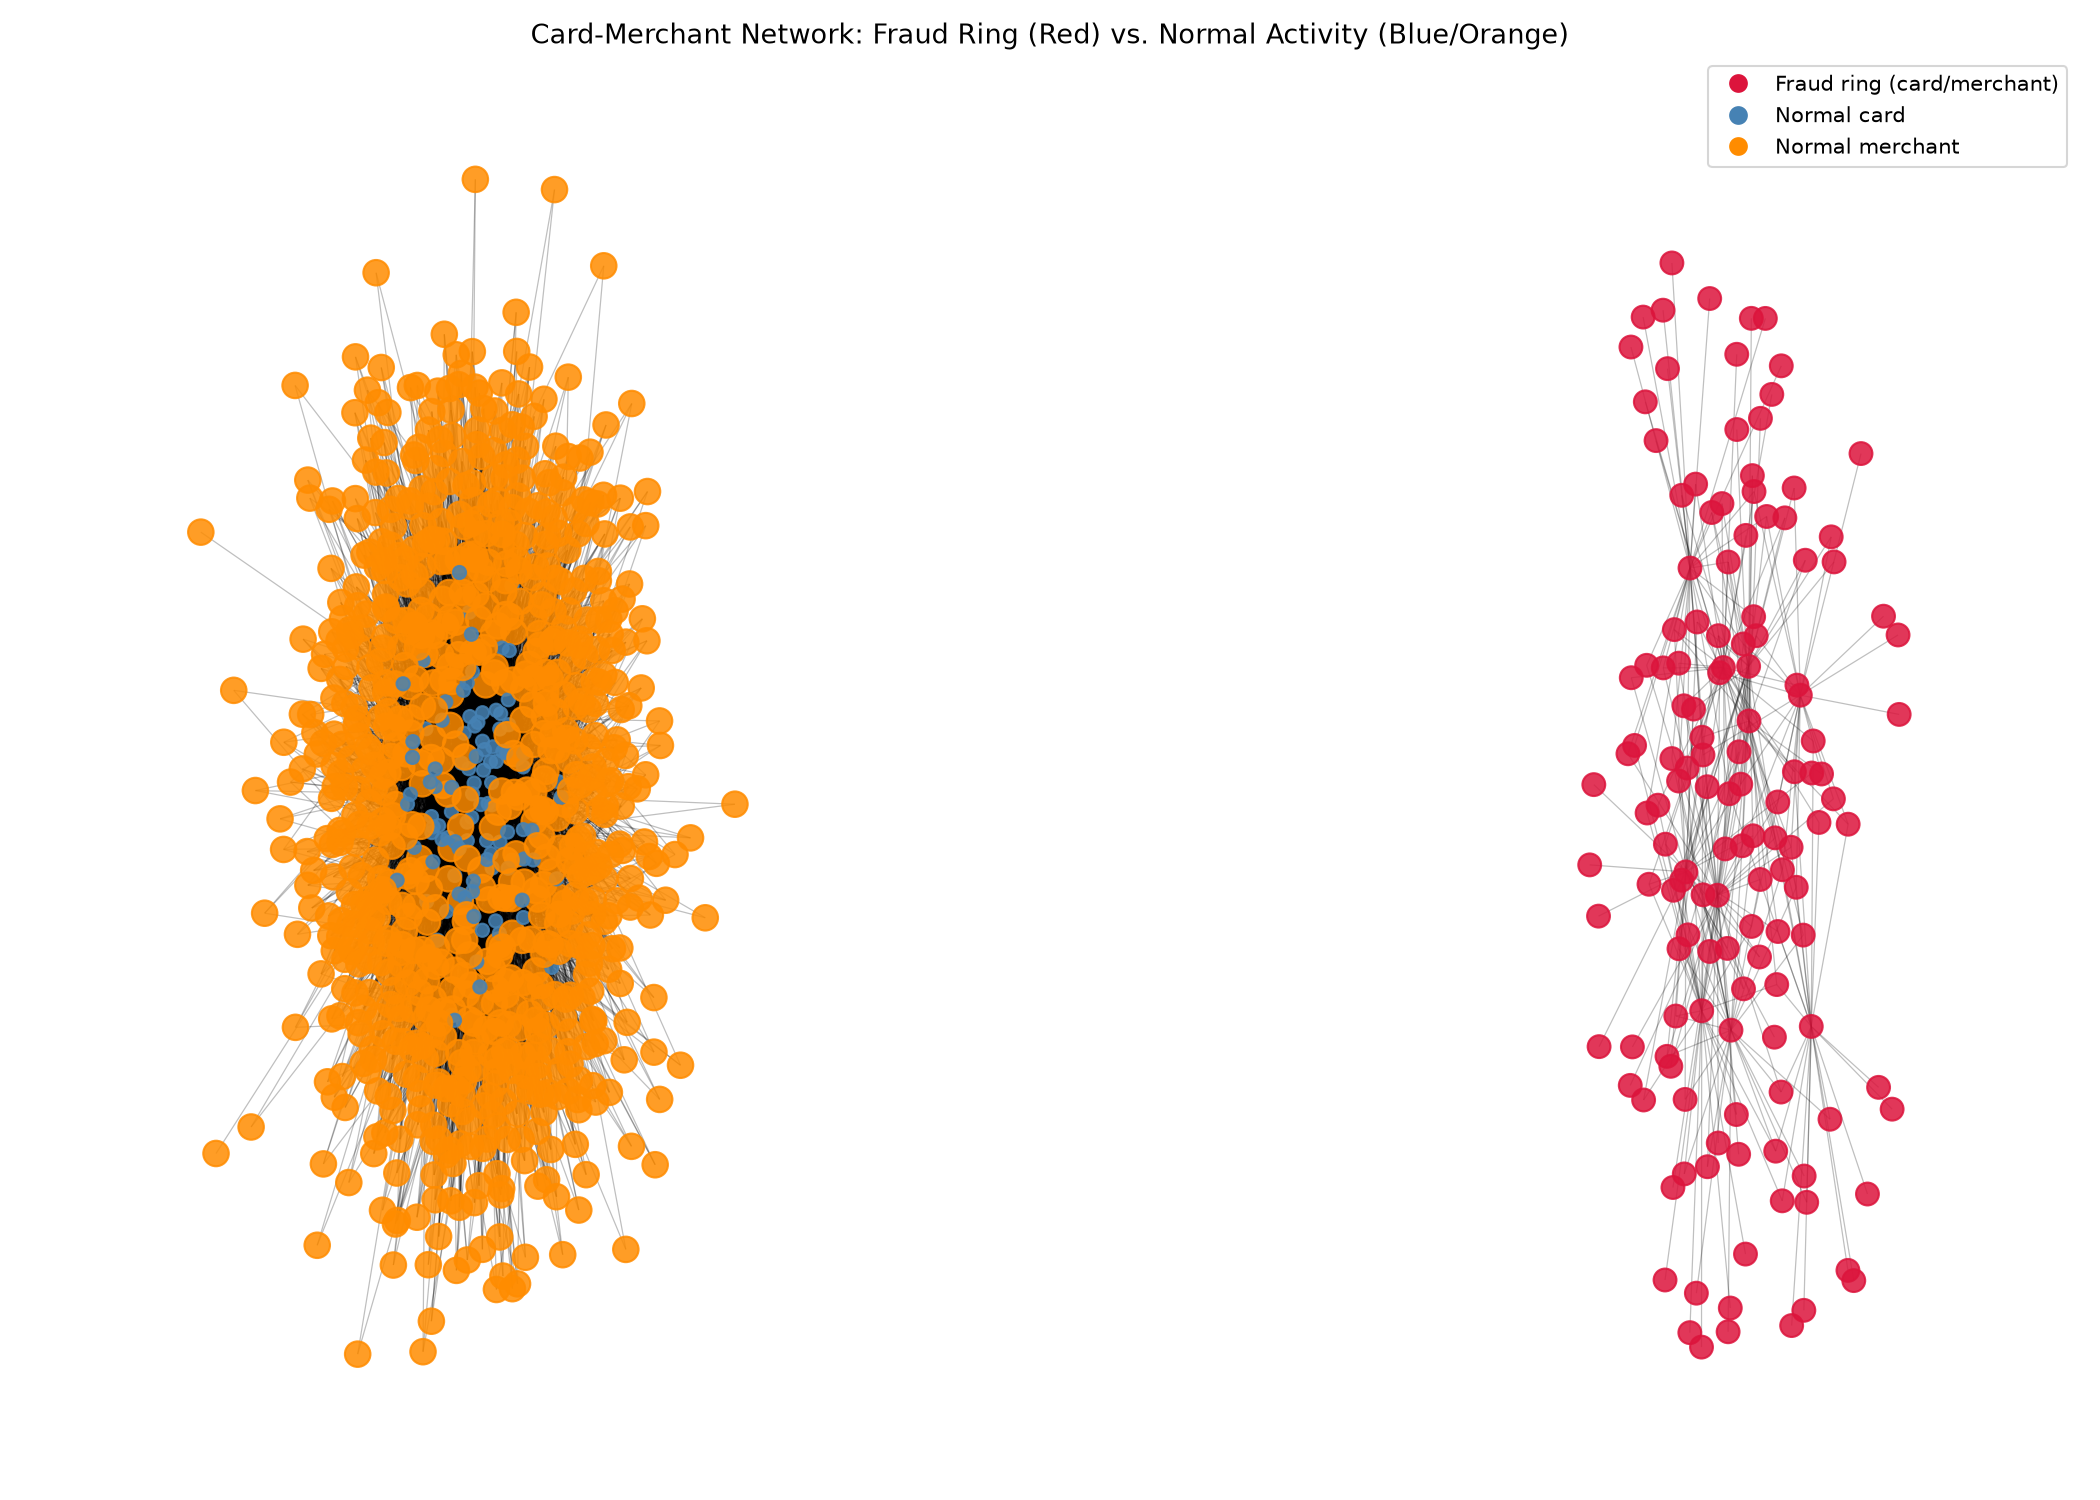
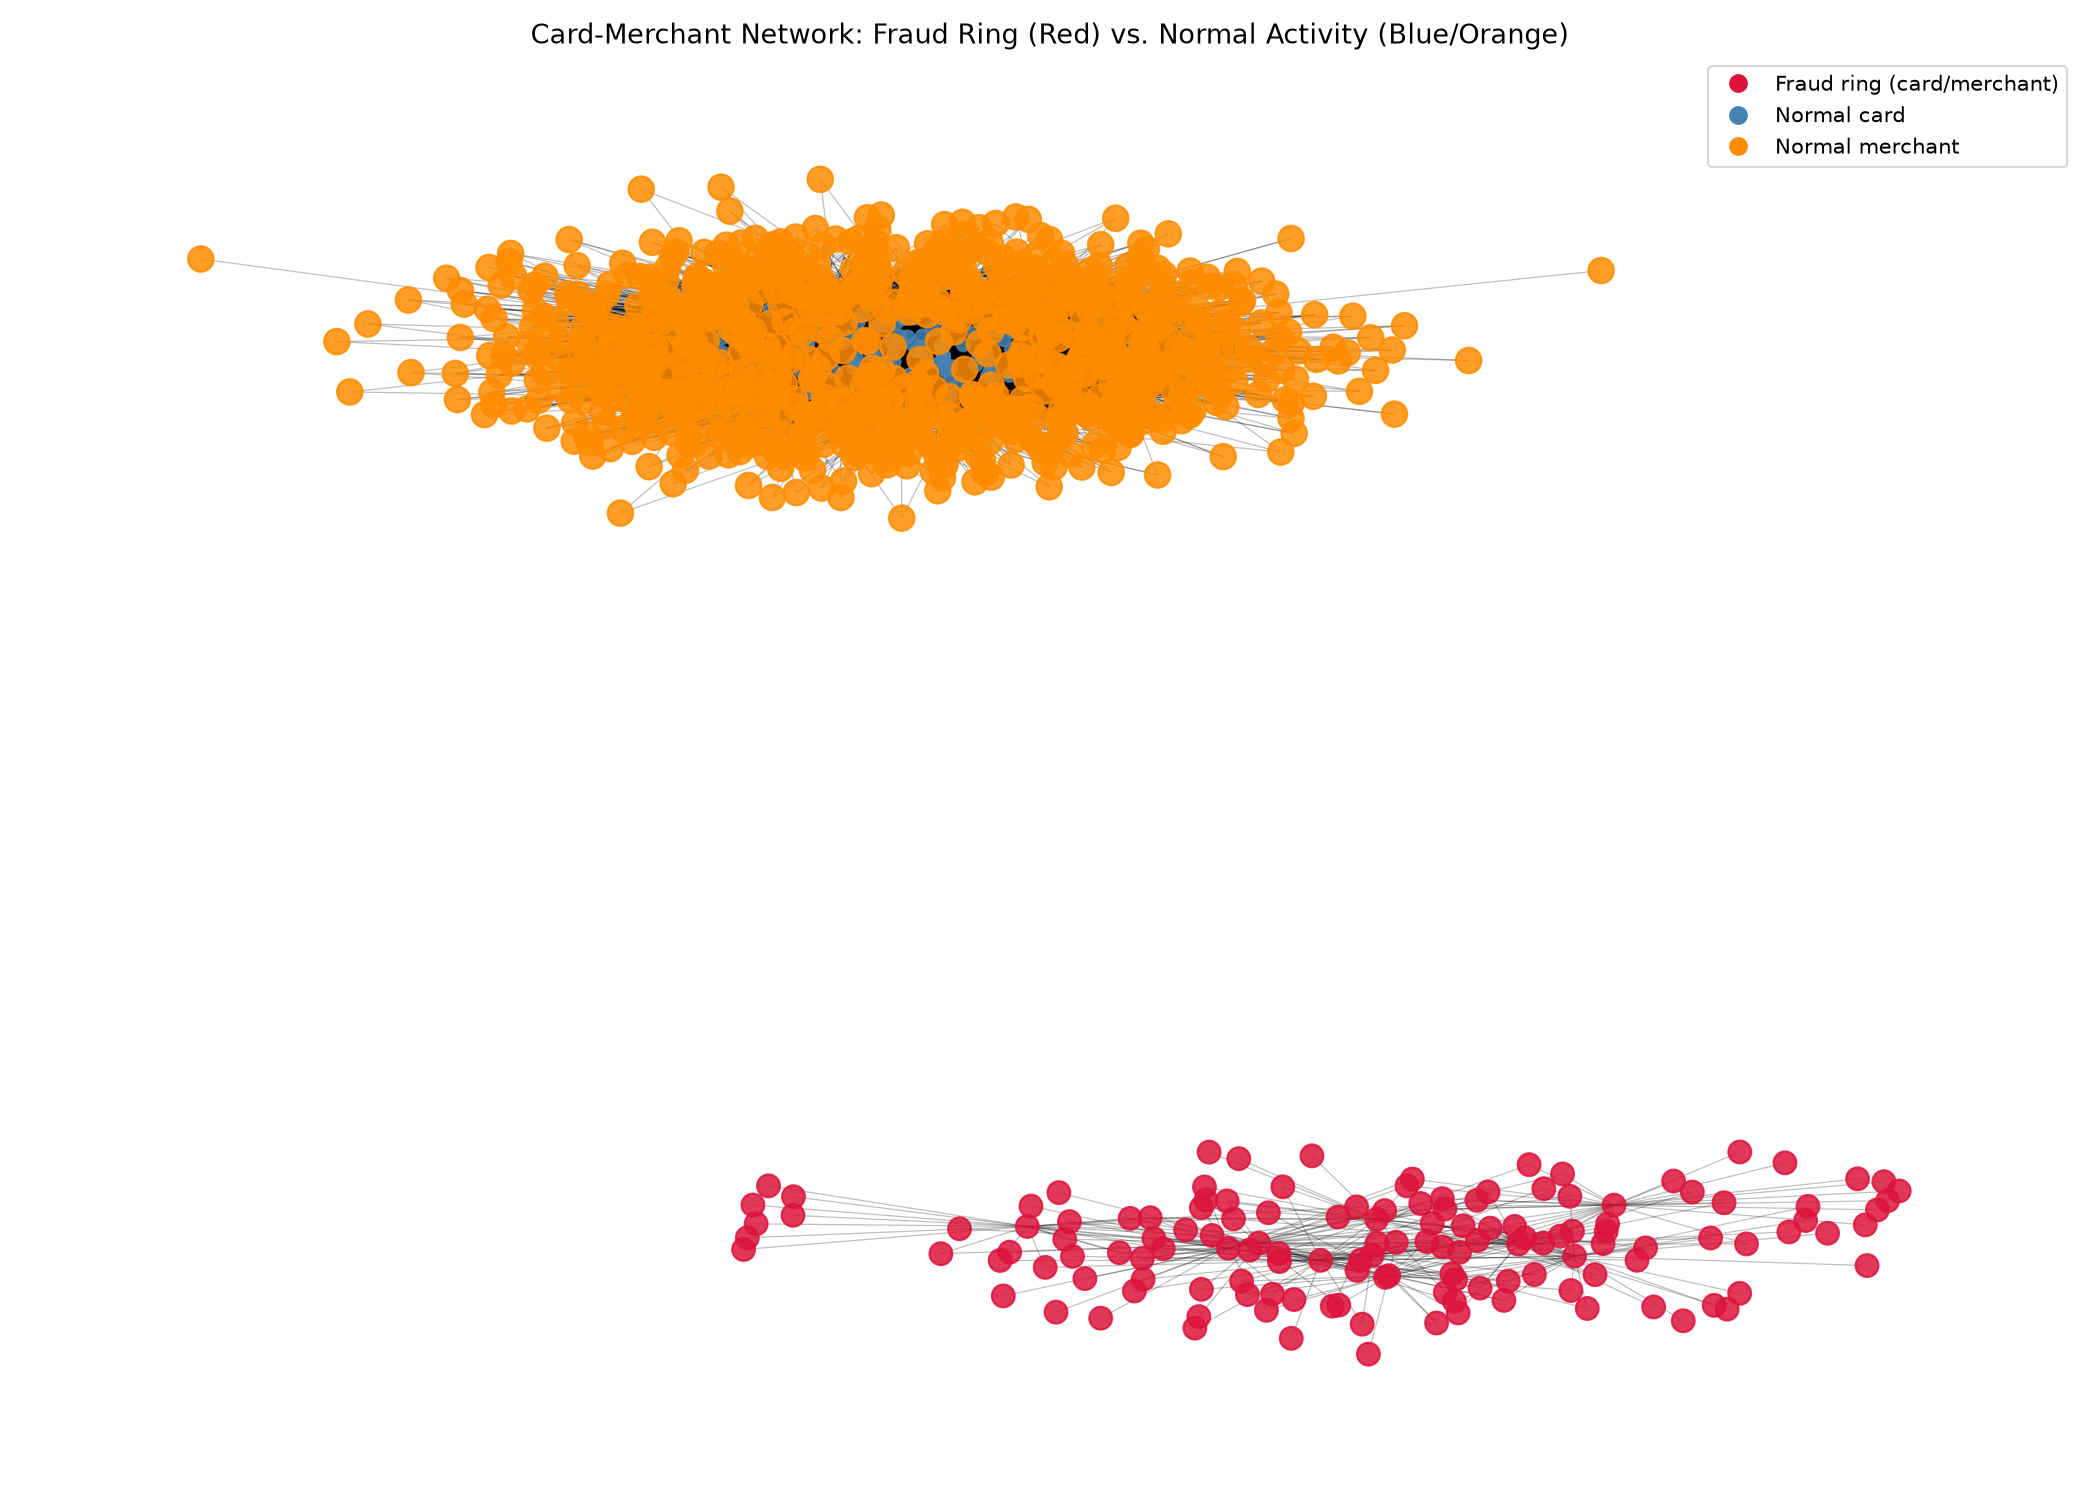
Make the fraud ring visualization deterministic
visualize_graph.py produced a different PNG on every run despite its
seeds: the sampled merchants were collected in a set, and
graph.subgraph() also keeps its nodes in a set, so the node order (and
with it the spring layout) depended on per-process string hashing.

- Build the display subgraph with an explicit node order (sorted
  merchants) and sorted edges instead of graph.subgraph(...).copy()
- data/fraud_ring_network.png regenerated; three runs with
  PYTHONHASHSEED=1, 2 and random give byte-identical output
  (1039 nodes, 5855 edges, as before)

diff --git a/src/visualize_graph.py b/src/visualize_graph.py
@@ -45,7 +45,15 @@ def build_display_subgraph(graph: nx.Graph, df: pd.DataFrame) -> nx.Graph:
     for card in normal_cards:
         normal_merchants.update(graph.neighbors(card))
 
-    subgraph = graph.subgraph(ring_nodes + normal_cards + list(normal_merchants)).copy()
+    # Build the subgraph with an explicit node/edge order. Set iteration order depends on
+    # per-process string hashing (and graph.subgraph() keeps its nodes in a set), which
+    # would otherwise change the spring layout on every run.
+    keep = ring_nodes + normal_cards + sorted(normal_merchants)
+    subgraph = nx.Graph()
+    subgraph.add_nodes_from((node, graph.nodes[node]) for node in keep)
+    subgraph.add_edges_from(sorted(
+        (min(u, v), max(u, v), data) for u, v, data in graph.subgraph(keep).edges(data=True)
+    ))
     subgraph.remove_nodes_from(list(nx.isolates(subgraph)))
     return subgraph
 
